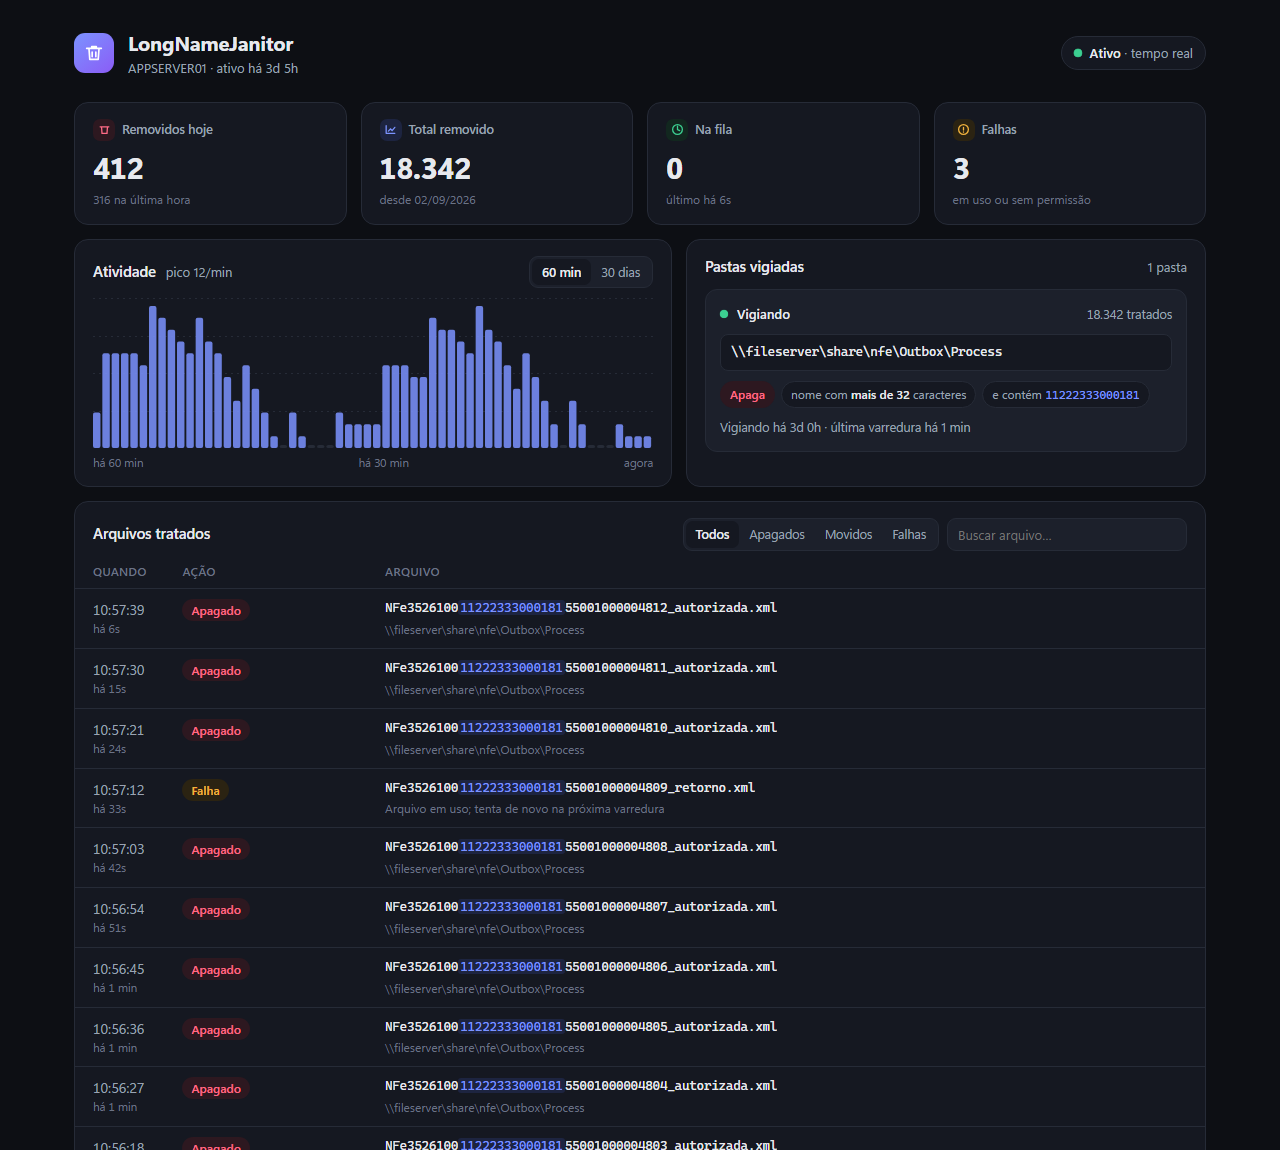
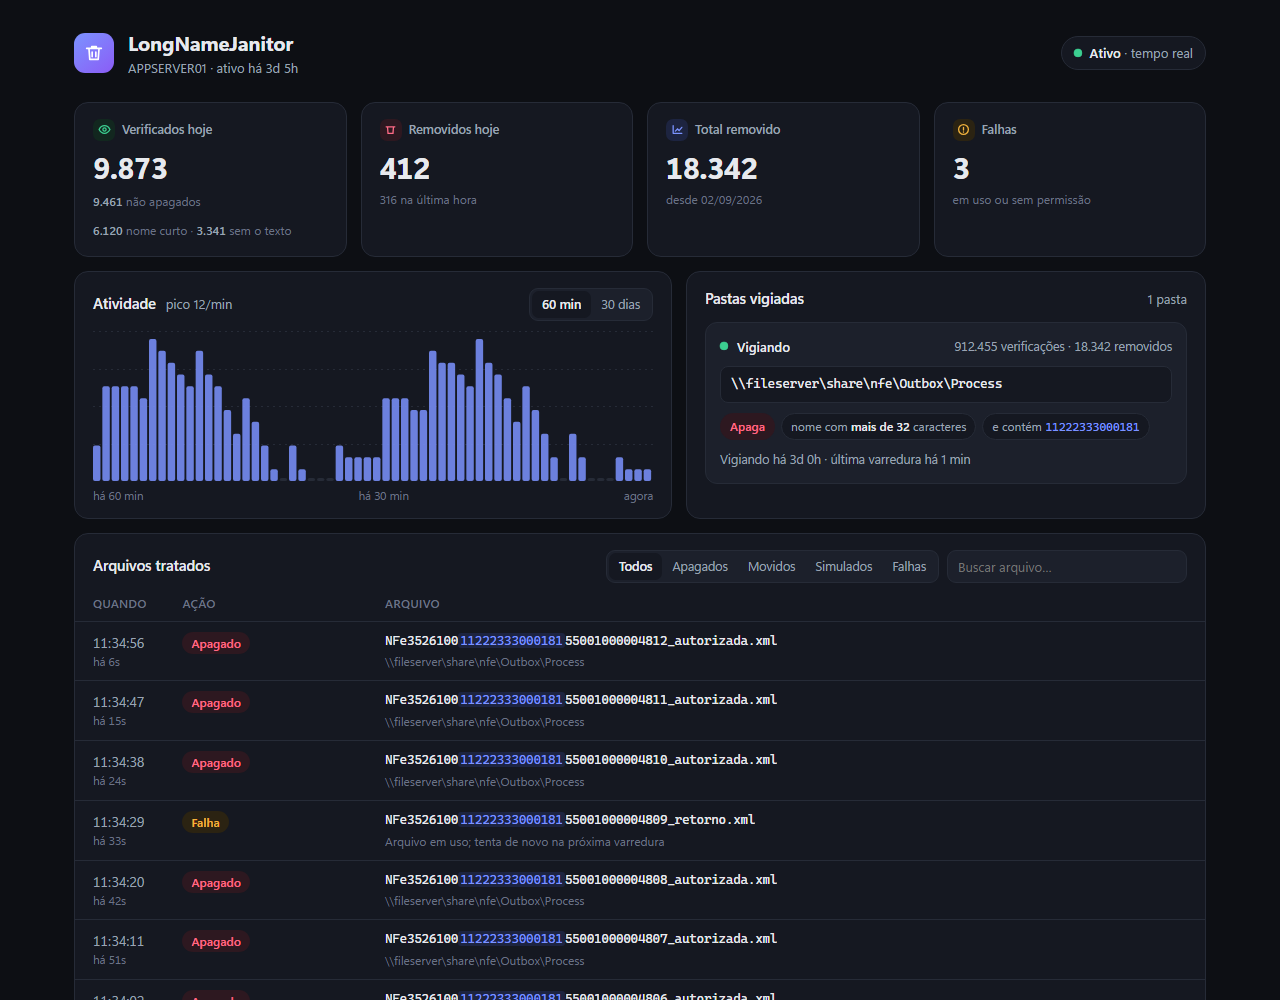
Count checked files and add a dry-run (safe) mode
- Every look at a file (watcher event or rescan) is counted, with the
  reason it was kept: name too short or missing the required text.
  Totals, per day and per folder are persisted with the other counters.
- DryRun (per folder, or Janitor:DryRun for all) removes nothing: matches
  are logged once as "Simulado" in the dashboard and the CSV history.
- Dashboard: "Checked today" card with the kept breakdown, a dry-run
  banner and badge, and a "Simulated" filter; the queue moved to a hint.
- The example config starts in dry run.

diff --git a/dashboard.html b/dashboard.html
@@ -67,6 +67,13 @@
     font-weight: 500;
   }
   .banner.show { display: block; }
+  .dry {
+    display: none; margin-bottom: 16px; padding: 12px 16px; border-radius: 12px; gap: 12px; align-items: center;
+    background: var(--warn-soft); color: var(--warn); border: 1px solid color-mix(in srgb, var(--warn) 35%, transparent);
+  }
+  .dry.show { display: flex; }
+  .dry b { font-weight: 700; }
+  .dry span { color: var(--text); opacity: .85; }
 
   .card { background: var(--surface); border: 1px solid var(--border); border-radius: 14px; box-shadow: var(--shadow); }
 
@@ -108,6 +115,7 @@
   .chip code { font-family: var(--mono); color: var(--accent); font-size: 11.5px; }
   .chip.del { background: var(--danger-soft); border-color: transparent; color: var(--danger); font-weight: 600; }
   .chip.mov { background: var(--accent-soft); border-color: transparent; color: var(--accent); font-weight: 600; }
+  .chip.sim { background: var(--warn-soft); border-color: transparent; color: var(--warn); font-weight: 600; }
   .folder .meta { margin-top: 10px; color: var(--muted); font-size: 12.5px; }
   .folder .err { margin-top: 8px; color: var(--warn); font-size: 12.5px; }
 
@@ -144,6 +152,9 @@
   .badge.Deleted { background: var(--danger-soft); color: var(--danger); }
   .badge.Moved { background: var(--accent-soft); color: var(--accent); }
   .badge.Error { background: var(--warn-soft); color: var(--warn); }
+  .badge.Simulated { background: var(--warn-soft); color: var(--warn); border: 1px dashed currentColor; }
+  .split { margin-top: 2px; font-size: 12px; color: var(--faint); line-height: 1.6; }
+  .split i { font-style: normal; color: var(--muted); font-weight: 600; font-variant-numeric: tabular-nums; }
   .empty { padding: 44px 18px; text-align: center; color: var(--muted); }
   .empty svg { color: var(--faint); margin-bottom: 8px; }
 
@@ -179,12 +190,24 @@
     <div class="live"><span class="dot" id="liveDot"></span><span id="liveText">Conectando…</span></div>
   </header>
 
+  <div class="dry" id="dry">
+    <svg width="20" height="20" viewBox="0 0 24 24" fill="none" stroke="currentColor" stroke-width="2" stroke-linecap="round" stroke-linejoin="round" style="flex:none"><path d="M12 3 2 20h20L12 3z"/><path d="M12 10v4M12 17v.5"/></svg>
+    <div><b>Modo simulação ligado.</b> <span>Nada está sendo apagado nem movido: os arquivos marcados como “Simulado” é que seriam.
+      Para valer de verdade, troque <code>DryRun</code> para <code>false</code> e reinicie.</span></div>
+  </div>
+
   <div class="banner" id="banner">Sem resposta do serviço. Tentando de novo…</div>
 
   <section class="kpis">
     <div class="card kpi">
+      <div class="label"><span class="ico" style="background:var(--ok-soft);color:var(--ok)">
+        <svg width="13" height="13" viewBox="0 0 24 24" fill="none" stroke="currentColor" stroke-width="2.4" stroke-linecap="round"><path d="M2 12s3.5-7 10-7 10 7 10 7-3.5 7-10 7S2 12 2 12z"/><circle cx="12" cy="12" r="3"/></svg></span>Verificados hoje</div>
+      <div class="value" id="kChecked">–</div>
+      <div class="split" id="kKept">&nbsp;</div>
+    </div>
+    <div class="card kpi">
       <div class="label"><span class="ico" style="background:var(--danger-soft);color:var(--danger)">
-        <svg width="13" height="13" viewBox="0 0 24 24" fill="none" stroke="currentColor" stroke-width="2.4" stroke-linecap="round"><path d="M4 7h16M6.5 7l.9 12h9.2l.9-12"/></svg></span>Removidos hoje</div>
+        <svg width="13" height="13" viewBox="0 0 24 24" fill="none" stroke="currentColor" stroke-width="2.4" stroke-linecap="round"><path d="M4 7h16M6.5 7l.9 12h9.2l.9-12"/></svg></span><span id="lToday">Removidos hoje</span></div>
       <div class="value" id="kToday">–</div>
       <div class="hint" id="kTodayHint">&nbsp;</div>
     </div>
@@ -193,12 +216,6 @@
         <svg width="13" height="13" viewBox="0 0 24 24" fill="none" stroke="currentColor" stroke-width="2.4" stroke-linecap="round"><path d="M4 19V5M4 19h16M8 15l4-4 3 3 5-6"/></svg></span>Total removido</div>
       <div class="value" id="kTotal">–</div>
       <div class="hint" id="kStarted">&nbsp;</div>
-    </div>
-    <div class="card kpi">
-      <div class="label"><span class="ico" style="background:var(--ok-soft);color:var(--ok)">
-        <svg width="13" height="13" viewBox="0 0 24 24" fill="none" stroke="currentColor" stroke-width="2.4" stroke-linecap="round"><path d="M12 6v6l4 2"/><circle cx="12" cy="12" r="9"/></svg></span>Na fila</div>
-      <div class="value" id="kPending">–</div>
-      <div class="hint" id="kLast">&nbsp;</div>
     </div>
     <div class="card kpi">
       <div class="label"><span class="ico" style="background:var(--warn-soft);color:var(--warn)">
@@ -235,6 +252,7 @@
           <button data-k="" class="on">Todos</button>
           <button data-k="Deleted">Apagados</button>
           <button data-k="Moved">Movidos</button>
+          <button data-k="Simulated">Simulados</button>
           <button data-k="Error">Falhas</button>
         </div>
         <input type="search" id="q" placeholder="Buscar arquivo…">
@@ -294,22 +312,27 @@ function renderHeader(d) {
 }
 
 function renderKpis(d) {
-  $('kToday').textContent = nf.format(d.today);
+  $('dry').classList.toggle('show', d.dryRun);
+  $('kChecked').textContent = nf.format(d.checkedToday);
+  const kept = d.keptShortToday + d.keptNoTextToday;
+  $('kKept').innerHTML = `<div><i>${nf.format(kept)}</i> não apagados</div>` +
+    `<div><i>${nf.format(d.keptShortToday)}</i> nome curto · <i>${nf.format(d.keptNoTextToday)}</i> sem o texto</div>`;
+  $('kChecked').title = `${nf.format(d.checked)} verificações desde ${new Date(d.firstStart).toLocaleDateString('pt-BR')} (cada vez que um arquivo é olhado: evento ou varredura)`;
+  $('lToday').textContent = d.dryRun ? 'Seriam removidos hoje' : 'Removidos hoje';
+  $('kToday').textContent = nf.format(d.dryRun ? d.simulatedToday : d.today);
   $('kTotal').textContent = nf.format(d.total);
-  $('kPending').textContent = nf.format(d.pending);
   $('kErrors').textContent = nf.format(d.errors);
   const last60 = d.perMinute.reduce((a, b) => a + b, 0);
-  $('kTodayHint').textContent = `${nf.format(last60)} na última hora`;
-  $('kStarted').textContent = `desde ${new Date(d.firstStart).toLocaleDateString('pt-BR')}`;
+  $('kTodayHint').textContent = `${nf.format(last60)} na última hora` + (d.pending ? ` · ${nf.format(d.pending)} na fila` : '');
+  $('kStarted').textContent = `desde ${new Date(d.firstStart).toLocaleDateString('pt-BR')}` +
+    (d.simulated ? ` · ${nf.format(d.simulated)} simulados` : '');
   $('dataDir').textContent = `contagem e histórico (CSV por dia) salvos em ${d.dataDir}`;
-  const last = d.recent.find(a => a.kind !== 'Error');
-  $('kLast').textContent = last ? `último ${ago(last.at)}` : 'nenhum ainda';
 }
 
 let range = 'min';
 function renderChart(d) {
   const byDay = range === 'day';
-  const v = byDay ? d.daily.map(x => x.count) : d.perMinute;
+  const v = byDay ? d.daily.map(x => x.count + x.simulated) : d.perMinute;
   const label = i => {
     if (byDay) {
       const [y, m, dd] = d.daily[i].day.split('-');
@@ -338,6 +361,7 @@ function renderChart(d) {
 
 function rules(f) {
   const c = [];
+  if (f.dryRun) c.push(`<span class="chip sim">Simulação</span>`);
   c.push(f.action === 'Move'
     ? `<span class="chip mov">Move para ${esc(f.moveTo)}</span>`
     : `<span class="chip del">Apaga</span>`);
@@ -360,7 +384,7 @@ function renderFolders(d) {
     const err = f.state === 'Reconnecting' && f.lastError ? `<div class="err">${esc(f.lastError)}</div>` : '';
     return `<div class="folder">
       <div class="top"><span class="dot ${st.dot}"></span><span class="state">${st.label}</span>
-        <span class="count">${nf.format(f.done)} tratado${f.done === 1 ? '' : 's'}</span></div>
+        <span class="count">${nf.format(f.checked)} verificações · ${nf.format(f.done)} removido${f.done === 1 ? '' : 's'}</span></div>
       <div class="path">${esc(f.path)}</div>
       <div class="chips">${rules(f)}</div>
       <div class="meta">${meta}</div>${err}
@@ -378,7 +402,7 @@ function highlight(name, terms) {
   return html;
 }
 
-const KIND = { Deleted: 'Apagado', Moved: 'Movido', Error: 'Falha' };
+const KIND = { Deleted: 'Apagado', Moved: 'Movido', Error: 'Falha', Simulated: 'Simulado' };
 
 function renderRows(d) {
   const terms = [...new Set(d.folders.flatMap(f => f.nameContains))];
@@ -386,7 +410,10 @@ function renderRows(d) {
   const list = d.recent.filter(a => (!kind || a.kind === kind) && (!q || a.name.toLowerCase().includes(q)));
   $('rows').innerHTML = list.map(a => {
     const at = new Date(a.at);
-    const detail = a.kind === 'Moved' ? `→ ${esc(a.detail)}` : a.kind === 'Error' ? esc(a.detail) : esc(a.folder);
+    const detail = a.kind === 'Moved' ? `→ ${esc(a.detail)}`
+      : a.kind === 'Error' ? esc(a.detail)
+      : a.kind === 'Simulated' ? `${esc(a.detail)} · ${esc(a.folder)}`
+      : esc(a.folder);
     return `<tr>
       <td class="when">${tf.format(at)}<small>${ago(a.at)}</small></td>
       <td><span class="badge ${a.kind}">${KIND[a.kind] ?? a.kind}</span></td>

diff --git a/Stats.cs b/Stats.cs
@@ -4,7 +4,7 @@ using System.Text.Json;
 // Contadores e histórico do painel. Ficam salvos em data\stats.json (sobrevivem a reinícios) e cada arquivo
 // tratado vira uma linha em data\historico\aaaa-MM-dd.csv.
 public enum FolderState { Connecting, Watching, Reconnecting }
-public enum ActivityKind { Deleted, Moved, Error }
+public enum ActivityKind { Deleted, Moved, Error, Simulated }
 
 public sealed record Activity(DateTimeOffset At, string Kind, string Name, string Folder, string? Detail);
 
@@ -29,6 +29,17 @@ public sealed class Stats
         public SortedDictionary<string, int> Daily { get; set; } = [];        // "2026-10-02" -> quantidade
         public Dictionary<string, long> FolderDone { get; set; } = [];        // pasta -> quantidade
         public List<Activity> Recent { get; set; } = [];
+
+        // Verificações: cada vez que um arquivo é olhado (evento ou varredura), com o motivo de ter ficado.
+        public long Checked { get; set; }
+        public long KeptShort { get; set; }
+        public long KeptNoText { get; set; }
+        public long Simulated { get; set; }
+        public SortedDictionary<string, int> CheckedDaily { get; set; } = [];
+        public SortedDictionary<string, int> KeptShortDaily { get; set; } = [];
+        public SortedDictionary<string, int> KeptNoTextDaily { get; set; } = [];
+        public SortedDictionary<string, int> SimulatedDaily { get; set; } = [];
+        public Dictionary<string, long> FolderChecked { get; set; } = [];
     }
 
     readonly Lock gate = new();
@@ -39,6 +50,7 @@ public sealed class Stats
     readonly Dictionary<FolderRule, FolderInfo> folders = [];
     readonly int[] perMinute = new int[60];
     readonly long[] minuteStamp = new long[60];
+    readonly HashSet<string> simulatedSeen = new(StringComparer.OrdinalIgnoreCase);
     int pending;
     bool dirty;
 
@@ -124,12 +136,47 @@ public sealed class Stats
         {
             saved.Total++;
             var key = DayKey(DateTimeOffset.Now);
-            saved.Daily[key] = saved.Daily.GetValueOrDefault(key) + 1;
-            while (saved.Daily.Count > MaxDays) saved.Daily.Remove(saved.Daily.Keys.First());
+            Bump(saved.Daily, key);
             saved.FolderDone[r.Path] = saved.FolderDone.GetValueOrDefault(r.Path) + 1;
             CountMinute(MinuteNow());
             Add(new Activity(DateTimeOffset.Now, kind.ToString(), Path.GetFileName(src), r.Path, dest));
         }
+    }
+
+    public void Checked(FolderRule r, Verdict v)
+    {
+        lock (gate)
+        {
+            var key = DayKey(DateTimeOffset.Now);
+            saved.Checked++;
+            Bump(saved.CheckedDaily, key);
+            saved.FolderChecked[r.Path] = saved.FolderChecked.GetValueOrDefault(r.Path) + 1;
+            if (v == Verdict.Short) { saved.KeptShort++; Bump(saved.KeptShortDaily, key); }
+            if (v == Verdict.NoText) { saved.KeptNoText++; Bump(saved.KeptNoTextDaily, key); }
+            dirty = true;
+        }
+    }
+
+    // Modo simulação: registra o que seria apagado. Cada arquivo entra uma vez (as varreduras o veem de novo).
+    public bool Simulated(FolderRule r, string src)
+    {
+        lock (gate)
+        {
+            if (simulatedSeen.Count > 200_000) simulatedSeen.Clear();
+            if (!simulatedSeen.Add(src)) return false;
+            saved.Simulated++;
+            Bump(saved.SimulatedDaily, DayKey(DateTimeOffset.Now));
+            CountMinute(MinuteNow());
+            Add(new Activity(DateTimeOffset.Now, nameof(ActivityKind.Simulated), Path.GetFileName(src), r.Path,
+                r.IsMove ? $"Seria movido para {r.MoveTo}" : "Seria apagado"));
+            return true;
+        }
+    }
+
+    static void Bump(SortedDictionary<string, int> daily, string key)
+    {
+        daily[key] = daily.GetValueOrDefault(key) + 1;
+        while (daily.Count > MaxDays) daily.Remove(daily.Keys.First());
     }
 
     public void Failed(FolderRule r, string src, string reason)
@@ -157,7 +204,13 @@ public sealed class Stats
             var daily = Enumerable.Range(0, 30).Select(k =>
             {
                 var key = DayKey(today.AddDays(k - 29));
-                return new { day = key, count = saved.Daily.GetValueOrDefault(key) };
+                return new
+                {
+                    day = key,
+                    count = saved.Daily.GetValueOrDefault(key),
+                    simulated = saved.SimulatedDaily.GetValueOrDefault(key),
+                    @checked = saved.CheckedDaily.GetValueOrDefault(key),
+                };
             }).ToList();
             return new
             {
@@ -168,6 +221,15 @@ public sealed class Stats
                 total = saved.Total,
                 today = saved.Daily.GetValueOrDefault(DayKey(today)),
                 errors = saved.Errors,
+                dryRun = folders.Keys.Any(f => f.DryRun),
+                simulated = saved.Simulated,
+                simulatedToday = saved.SimulatedDaily.GetValueOrDefault(DayKey(today)),
+                @checked = saved.Checked,
+                checkedToday = saved.CheckedDaily.GetValueOrDefault(DayKey(today)),
+                keptShort = saved.KeptShort,
+                keptShortToday = saved.KeptShortDaily.GetValueOrDefault(DayKey(today)),
+                keptNoText = saved.KeptNoText,
+                keptNoTextToday = saved.KeptNoTextDaily.GetValueOrDefault(DayKey(today)),
                 pending = Math.Max(0, Volatile.Read(ref pending)),
                 dataDir,
                 perMinute = chart,
@@ -187,6 +249,8 @@ public sealed class Stats
                     retryAt = kv.Value.RetryAt,
                     lastError = kv.Value.LastError,
                     done = saved.FolderDone.GetValueOrDefault(kv.Key.Path),
+                    @checked = saved.FolderChecked.GetValueOrDefault(kv.Key.Path),
+                    dryRun = kv.Key.DryRun,
                 }).ToList(),
                 recent = saved.Recent.ToList(), // cópia: o JSON é gerado fora do lock, enquanto a lista muda
             };
@@ -208,7 +272,7 @@ public sealed class Stats
         {
             var file = Path.Combine(historyDir, DayKey(a.At) + ".csv");
             var header = File.Exists(file) ? "" : "data_hora;acao;arquivo;pasta;detalhe\r\n";
-            var acao = a.Kind switch { "Deleted" => "Apagado", "Moved" => "Movido", _ => "Falha" };
+            var acao = a.Kind switch { "Deleted" => "Apagado", "Moved" => "Movido", "Simulated" => "Simulado", _ => "Falha" };
             File.AppendAllText(file, header + string.Join(';',
                 a.At.ToString("yyyy-MM-dd HH:mm:ss"), acao, Csv(a.Name), Csv(a.Folder), Csv(a.Detail)) + "\r\n", Encoding.UTF8);
         }

diff --git a/Janitor.cs b/Janitor.cs
@@ -5,7 +5,10 @@ public sealed class JanitorOptions
 {
     public List<FolderRule> Folders { get; set; } = [];
     public int RescanMinutes { get; set; } = 5;
+    public bool DryRun { get; set; } = false;            // true = simulação em todas as pastas
 }
+
+public enum Verdict { Match, Short, NoText }
 
 public sealed class FolderRule
 {
@@ -16,6 +19,7 @@ public sealed class FolderRule
     public bool CountExtension { get; set; } = true;     // "relatorio.pdf" conta 13 ou 9?
     public List<string> NameContains { get; set; } = []; // vazio = qualquer nome; senão precisa conter um deles
     public bool IncludeSubdirectories { get; set; } = false;
+    public bool DryRun { get; set; } = false;            // simulação: só mostra o que seria apagado/movido
 
     public bool IsMove => Action.Equals("Move", StringComparison.OrdinalIgnoreCase);
 }
@@ -37,6 +41,8 @@ public sealed class Janitor(IOptions<JanitorOptions> opt, Stats stats, ILogger<J
         }
         foreach (var r in o.Folders)
         {
+            if (o.DryRun) r.DryRun = true;
+            if (r.DryRun) log.LogWarning("MODO SIMULAÇÃO em {Path}: nada será apagado nem movido", r.Path);
             if (r.IsMove && string.IsNullOrWhiteSpace(r.MoveTo))
                 throw new InvalidOperationException($"{r.Path}: Action=Move precisa de MoveTo");
             stats.Register(r);
@@ -109,17 +115,25 @@ public sealed class Janitor(IOptions<JanitorOptions> opt, Stats stats, ILogger<J
     {
         if (r.IsMove && path.StartsWith(Path.TrimEndingDirectorySeparator(Path.GetFullPath(r.MoveTo)) + Path.DirectorySeparatorChar,
                 StringComparison.OrdinalIgnoreCase)) return;
-        if (!Matches(path, r)) return;
+        var verdict = Classify(path, r);
+        stats.Checked(r, verdict);
+        if (verdict != Verdict.Match) return;
+        if (r.DryRun)
+        {
+            if (stats.Simulated(r, path)) log.LogInformation("Simulação, seria {Action}: {Src}", r.IsMove ? "movido" : "apagado", path);
+            return;
+        }
         stats.Queued();
         queue.Writer.TryWrite((path, r));
     }
 
-    static bool Matches(string path, FolderRule r)
+    static Verdict Classify(string path, FolderRule r)
     {
         var name = Path.GetFileName(path);
         var counted = r.CountExtension ? name : Path.GetFileNameWithoutExtension(path);
-        if (counted.Length <= r.MaxNameLength) return false;
-        return r.NameContains.Count == 0 || r.NameContains.Any(s => name.Contains(s, StringComparison.OrdinalIgnoreCase));
+        if (counted.Length <= r.MaxNameLength) return Verdict.Short;
+        return r.NameContains.Count == 0 || r.NameContains.Any(s => name.Contains(s, StringComparison.OrdinalIgnoreCase))
+            ? Verdict.Match : Verdict.NoText;
     }
 
     async Task Handle(string path, FolderRule r, CancellationToken ct)

diff --git a/README.md b/README.md
@@ -23,6 +23,9 @@ dashboard.
 - File still being written (locked): retries for ~10 s; otherwise it counts as a failure and the next scan picks it up.
 - **Persistent counters**: total, per day and the last 300 files in `data\stats.json`; nothing resets on restart.
 - **History**: every handled file becomes a line in `data\historico\yyyy-MM-dd.csv` (opens in Excel).
+- **Checked files**: every time a file is looked at (event or rescan) it is counted, together with why it was kept
+  (name too short / missing the text), so you can see what passed through the folder and was not removed.
+- **Dry run (safe mode)**: `"DryRun": true` removes nothing; the dashboard and the history show what *would* be removed.
 - Idle cost is near zero: ~20 MB of RAM and no polling.
 
 ### Install on a server
@@ -63,7 +66,8 @@ Options: `.\install.ps1 -InstallDir D:\Apps\LongNameJanitor -Port 8080`.
         "MaxNameLength": 32,
         "CountExtension": true,
         "NameContains": [ "11222333000181" ],
-        "IncludeSubdirectories": false
+        "IncludeSubdirectories": false,
+        "DryRun": true
       }
     ]
   }
@@ -84,6 +88,7 @@ the `NameContains` texts (anywhere in the name; an empty list matches every name
 | `CountExtension` | `true` counts the extension (`report.pdf` = 10). |
 | `NameContains` | Texts the name must contain (any one is enough). |
 | `IncludeSubdirectories` | Also watch subfolders. |
+| `DryRun` | `true` = dry run: nothing is deleted or moved, matches show up as "Simulado". `Janitor:DryRun` turns it on for every folder. The example starts in dry run on purpose. |
 
 Add more blocks to `Folders` to watch more folders, then `Restart-Service LongNameJanitor`.
 Logs go to Event Viewer > Application, source `LongNameJanitor`.
@@ -112,6 +117,9 @@ caracteres e contém um texto (ex.: um CNPJ). Tem um painel no navegador que atu
 - Arquivo ainda sendo gravado (em uso): tenta por ~10 s; se não der, conta como falha e a próxima varredura pega.
 - **Contagem salva**: total, por dia e últimos 300 arquivos em `data\stats.json`; não zera ao reiniciar.
 - **Histórico**: cada arquivo tratado vira uma linha em `data\historico\aaaa-MM-dd.csv` (abre no Excel).
+- **Verificados**: cada vez que um arquivo é olhado (evento ou varredura) ele é contado, junto com o motivo de ter
+  ficado (nome curto / sem o texto). Assim dá para ver o que passou pela pasta e não foi apagado.
+- **Modo simulação (seguro)**: com `"DryRun": true` nada é apagado; o painel e o histórico mostram o que *seria* apagado.
 - Parado, quase não gasta nada: ~20 MB de memória e nenhuma varredura contínua.
 
 ### Instalar no servidor
@@ -156,6 +164,7 @@ algum dos textos de `NameContains` (em qualquer posição; lista vazia = qualque
 | `CountExtension` | `true` conta o nome com a extensão (`relatorio.pdf` = 13). |
 | `NameContains` | Textos que o nome precisa conter (basta um). |
 | `IncludeSubdirectories` | Vigia também as subpastas. |
+| `DryRun` | `true` = simulação: nada é apagado nem movido; o que bateria na regra aparece como "Simulado". `Janitor:DryRun` liga para todas as pastas. O exemplo já começa em simulação, de propósito. |
 
 Para vigiar mais pastas, adicione blocos em `Folders` e rode `Restart-Service LongNameJanitor`.
 Logs: Visualizador de Eventos > Aplicativo, origem `LongNameJanitor`.
